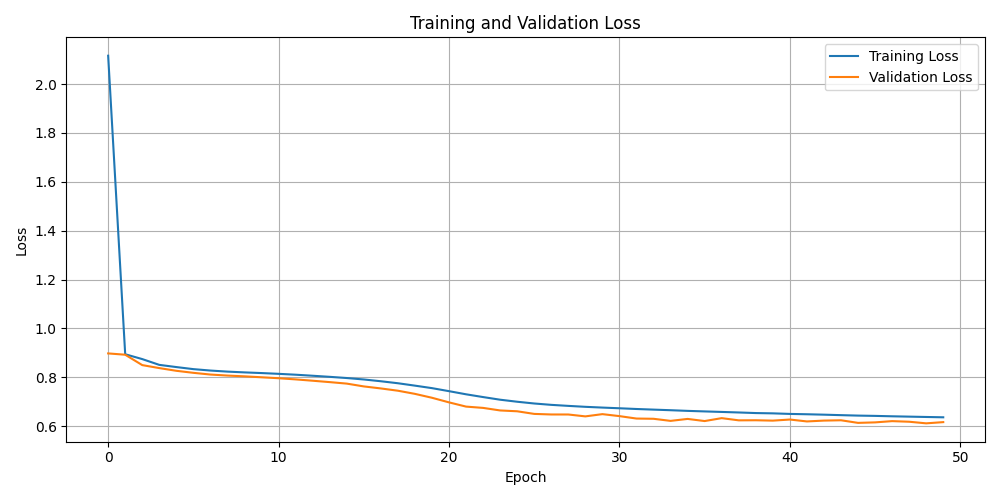
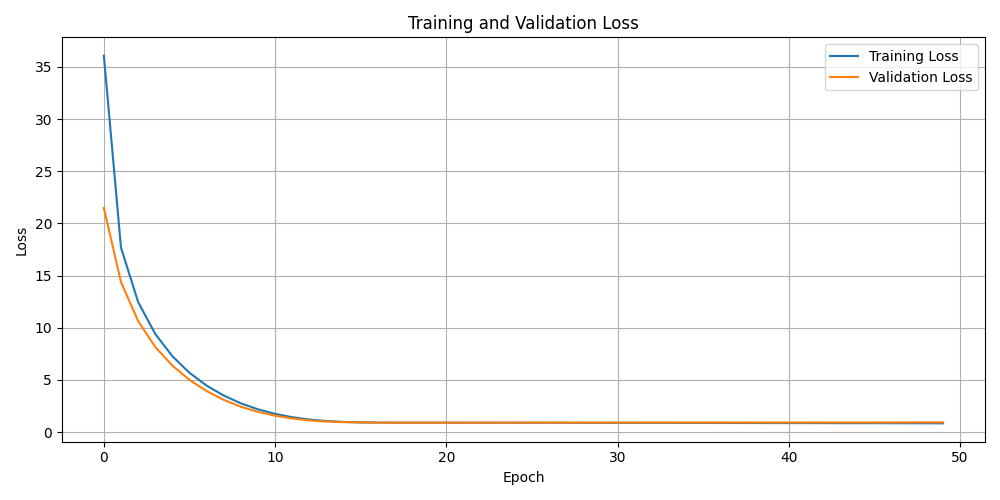
most recent

diff --git a/project/training/nn.py b/project/training/nn.py
@@ -11,7 +11,7 @@ import copy
 import torch.distributed as dist
 import datetime
 import os
-
+from m_height import calculate_m_height #(x, m, p)
 def avg(sigmas):
     total = 0
     for val in sigmas:
@@ -36,7 +36,10 @@ class ResultsDataset(Dataset):
         for _, row in df.iterrows():
             scalars = [row["n"], row["k"], row["m"]]
             p_vector = np.array(row["P"], dtype=np.float32)
-            x = np.concatenate([scalars, p_vector])
+            random_xs = np.concatenate(row["random_x"])
+            random_heights = np.array(row["m_heights"], dtype=np.float32)
+
+            x = np.concatenate([scalars, p_vector, random_xs, random_heights])
             self.inputs.append(x)
             self.targets.append(row["result"])
 
@@ -55,17 +58,17 @@ class Net(nn.Module):
     def __init__(self, input_size):
         super(Net, self).__init__()
         self.model = nn.Sequential(
-	    nn.Linear(input_size, 2048),
+            nn.Linear(input_size, 2048),
             nn.BatchNorm1d(2048),
             nn.ReLU(),
             nn.Dropout(0.3),
                         
-	    nn.Linear(2048, 2048),
+            nn.Linear(2048, 2048),
             nn.BatchNorm1d(2048),
             nn.ReLU(),
             nn.Dropout(0.3),
              
-	    nn.Linear(2048, 2048),
+            nn.Linear(2048, 2048),
             nn.BatchNorm1d(2048),
             nn.ReLU(),
             nn.Dropout(0.3),
@@ -81,7 +84,7 @@ class Net(nn.Module):
             nn.Dropout(0.3),
         
 
-	    nn.Linear(2048, 1)
+            nn.Linear(2048, 1)
         
         )
 
@@ -95,20 +98,40 @@ def create_datasets(df, n_lower, n_upper, k_lower, k_upper, m_lower):
     for n in range(n_lower, n_upper + 1):
         for k in range(k_lower, k_upper + 1):
             for m in range(m_lower, n - k + 1):
-                print("Creating dataset for ", n, k, m)
-                my_df = df.loc[(df["k"] == k) & (df["n"] == n) & (df["m"] == m)]
-                full_dataset = ResultsDataset(my_df)
-                train_indices, val_indices = train_test_split(range(len(full_dataset)), test_size=0.2, random_state=42)
+                print("Creating dataset for", n, k, m)
+                my_df = df.loc[(df["k"] == k) & (df["n"] == n) & (df["m"] == m)].copy()
                 
+                random_x_list = []
+                m_heights_list = []
+                
+                for idx, row in my_df.iterrows():
+                    row_P = np.array(row["P"], dtype=np.float32).reshape((k, n - k))
+                    x_dim = k
+    
+                    curr_random_x = []
+                    curr_m_heights = []
+                    for _ in range(10):
+                        x_rand = np.random.uniform(low=-10, high=10, size=(x_dim,))
+                        curr_random_x.append(x_rand)
+                        m_height = calculate_m_height(x_rand, m, row_P)
+                        curr_m_heights.append(m_height)
+                        
+                    random_x_list.append(curr_random_x)
+                    m_heights_list.append(curr_m_heights)
+                
+                my_df["random_x"] = random_x_list
+                my_df["m_heights"] = m_heights_list
+                
+                full_dataset = ResultsDataset(my_df)
+                train_indices, val_indices = train_test_split(
+                    range(len(full_dataset)), test_size=0.2, random_state=42
+                )
                 train_subset = torch.utils.data.Subset(full_dataset, train_indices)
                 val_subset = torch.utils.data.Subset(full_dataset, val_indices)
-        
-                
-                train_loader = DataLoader(train_subset, batch_size=512, num_workers=8,
-                                          pin_memory=True)
-                val_loader = DataLoader(val_subset, batch_size=512, num_workers=8,
-                                        pin_memory=True)
-                
+    
+                train_loader = DataLoader(train_subset, batch_size=512, num_workers=8, pin_memory=True)
+                val_loader = DataLoader(val_subset, batch_size=512, num_workers=8, pin_memory=True)
+    
                 if n not in datasets:
                     datasets[n] = {}
                 if k not in datasets[n]:
@@ -118,7 +141,7 @@ def create_datasets(df, n_lower, n_upper, k_lower, k_upper, m_lower):
                     "val_loader": val_loader,
                     "dataset": full_dataset
                 }
-                print("Finished dataset for ", n, k, m)
+                print("Finished dataset for", n, k, m)  
     return datasets
 
 def train(datasets, num_epochs, learning_rate):
@@ -126,7 +149,7 @@ def train(datasets, num_epochs, learning_rate):
     sigmas = []
     local_rank = int(os.environ["LOCAL_RANK"])
     device = torch.device("cuda", local_rank)
-    idx =0
+    idx = 0
     for n in datasets:
         for k in datasets[n]:
             for m in datasets[n][k]:

diff --git a/project/training/m_height.py b/project/training/m_height.py
@@ -1,0 +1,19 @@
+import numpy as np
+def calculate_m_height(x, m, P):
+    result = np.matmul(x, P)
+    result = np.append(result, x)
+    result = np.abs(result)
+    result = np.sort(result)
+    if(result[-1] == 0 and result[m] == 0):
+        return 0
+    if(result[-1] == 0):
+        return 100000000
+    return result[-1] / result[-m - 1]
+
+if __name__ == "__main__":
+    x = [-1.2, 3.8]
+    P = [[.4759809, .9938236, .819425], [-.8960798, -.7442706, .3345122]]
+    result = calculate_m_height(x, 2, P)
+    print(result)
+        
+

diff --git a/project/test.cpp b/project/test.cpp
@@ -12,7 +12,7 @@ int main(){
     {1, 0, 0, 0, 0.4759809,  0.9938236, 0.819425, 1, 2},
     {0, 1, 0, 0, -0.8960798, -0.7442706, 0.3345122, 1, 2},
     {0, 0, 1, 0, 1, 2, 3, 4, 5},
-    {0, 0, 0, 1, 9, 8, 7, 6, 5}
+    {0, 0, 0, 1, 9, 8, 7, 6, 100}
   };
   double result = solve(4, 9, matrix, 2);
 	cout << result << "\n"; 
